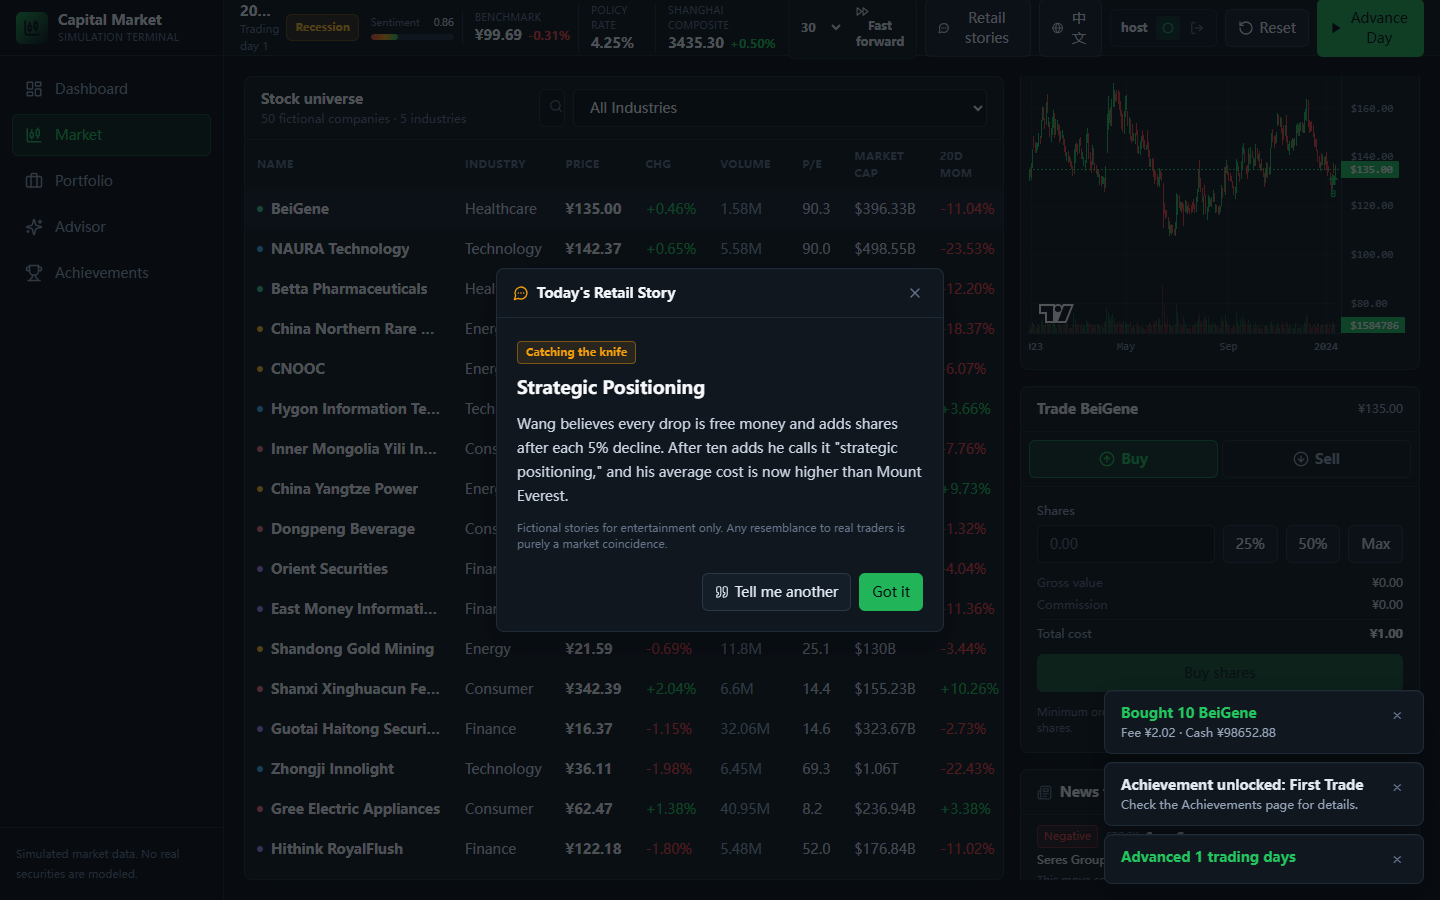
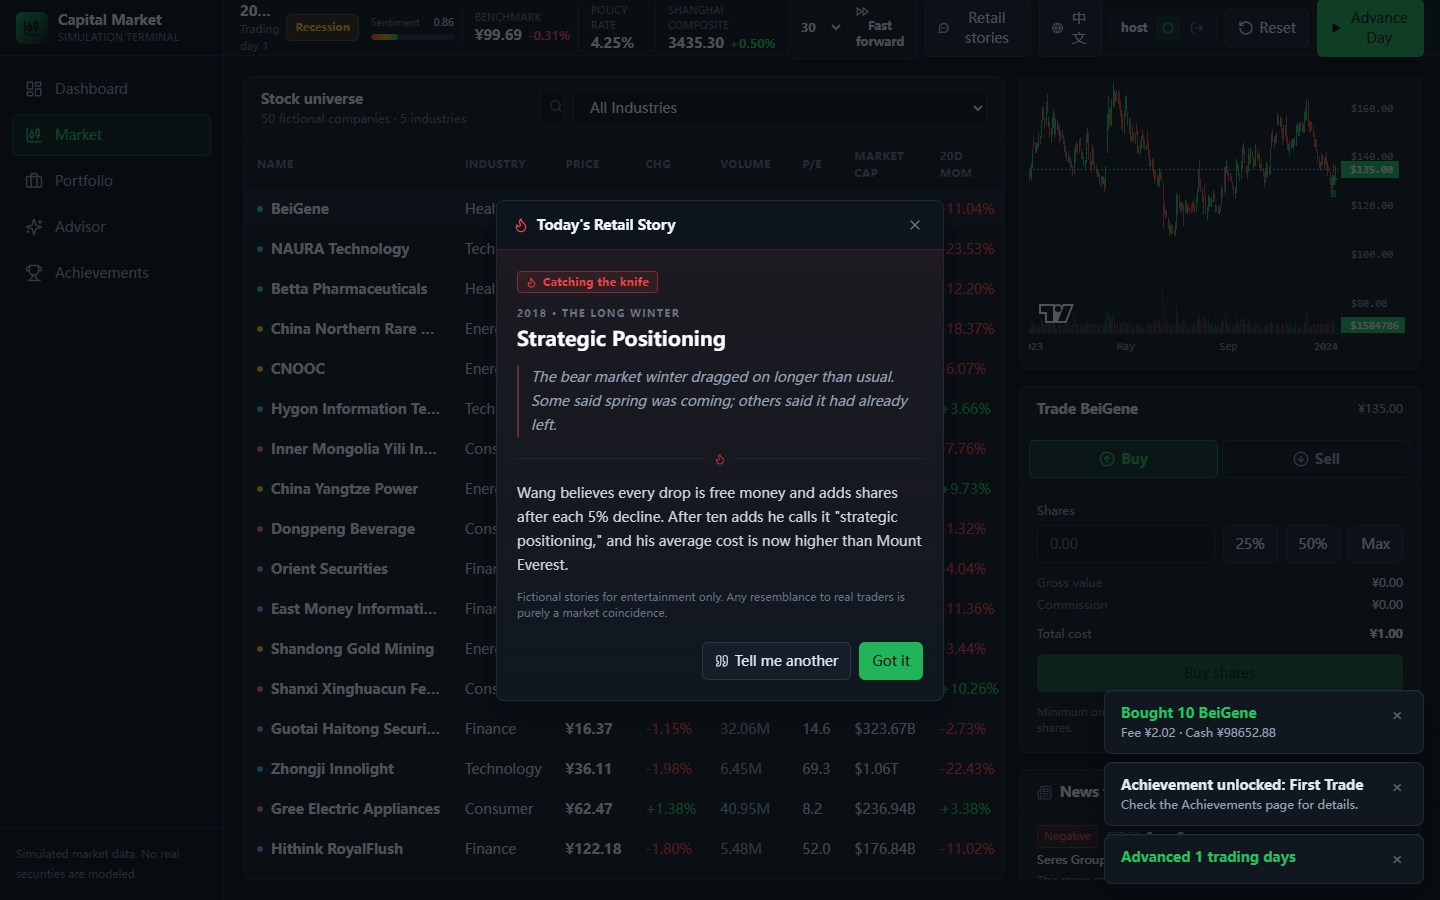
Give retail stories era-flavored archive style

diff --git a/frontend/src/components/story/RetailStoryModal.jsx b/frontend/src/components/story/RetailStoryModal.jsx
@@ -1,4 +1,4 @@
-import { MessageCircleMore, Quote, X } from "lucide-react";
+import { Flame, Quote, X } from "lucide-react";
 
 import { useApp } from "../../store/AppContext.jsx";
 
@@ -8,9 +8,9 @@ export default function RetailStoryModal() {
 
   return (
     <div className="fixed inset-0 z-40 flex items-center justify-center bg-ink-950/70 p-4">
-      <div className="panel w-full max-w-md overflow-hidden">
-        <div className="flex items-center gap-2 border-b border-ink-600/70 bg-ink-800/70 px-4 py-3">
-          <MessageCircleMore size={16} className="text-gold" />
+      <div className="panel w-full max-w-md overflow-hidden border-risk/30">
+        <div className="flex items-center gap-2 border-b border-risk/25 bg-ink-850 px-4 py-3">
+          <Flame size={16} className="text-risk" />
           <h2 className="text-sm font-semibold text-slate-100">{t("story.title")}</h2>
           <button
             onClick={closeStory}
@@ -20,11 +20,25 @@ export default function RetailStoryModal() {
             <X size={16} />
           </button>
         </div>
-        <div className="space-y-3 p-5">
-          <span className="inline-flex rounded border border-gold/40 bg-gold/10 px-2 py-0.5 text-[11px] font-semibold text-gold">
+        <div className="space-y-3 bg-gradient-to-b from-risk/[0.06] to-transparent p-5">
+          <span className="inline-flex items-center gap-1.5 rounded border border-risk/40 bg-risk/10 px-2 py-0.5 text-[11px] font-semibold tracking-wide text-risk">
+            <Flame size={11} />
             {story.tag}
           </span>
-          <h3 className="text-lg font-bold leading-6 text-slate-50">{story.title}</h3>
+          <div>
+            <p className="text-[10px] font-semibold uppercase tracking-[0.14em] text-slate-500">
+              {story.era}
+            </p>
+            <h3 className="mt-1 text-xl font-bold leading-7 text-slate-50">{story.title}</h3>
+          </div>
+          <p className="border-l-2 border-risk/40 pl-3 text-sm italic leading-6 text-slate-400">
+            {story.prologue}
+          </p>
+          <div className="flex items-center gap-2 py-1">
+            <span className="h-px flex-1 bg-ink-600/70" />
+            <Flame size={12} className="text-risk/70" />
+            <span className="h-px flex-1 bg-ink-600/70" />
+          </div>
           <p className="text-sm leading-6 text-slate-300">{story.story}</p>
           <p className="text-[11px] text-slate-500">{t("story.fiction")}</p>
           <div className="flex justify-end gap-2 pt-2">

diff --git a/backend/app/services/stories.py b/backend/app/services/stories.py
@@ -1,12 +1,20 @@
-"""Fun fictional retail investor stories shown to the player."""
+"""Fun fictional retail investor stories shown to the player.
+
+Each story carries an era label and an atmospheric prologue so the game reads
+like a small archive of market folklore rather than plain jokes.
+"""
 
 STORIES = [
     {
         "id": "s01",
         "tag_zh": "听消息",
         "tag_en": "Hot tip",
+        "era_zh": "1993 · 消息时代",
+        "era_en": "1993 · The Age of Rumors",
         "title_zh": "七大姑的独家内幕",
         "title_en": "Auntie's Insider Info",
+        "prologue_zh": "那一年，上海街头的每个人，口袋里都揣着一本手抄的股票笔记。",
+        "prologue_en": "That year, on the streets of Shanghai, everyone carried a handwritten stock notebook.",
         "body_zh": "老李的七大姑从牌友那里听说某股票要重组，他连夜满仓。第二天公司发公告说“近期无重大事项”，老李说：消息没错，是行情没听懂。",
         "body_en": "Li's aunt heard from a mahjong partner that a stock was about to restructure, so he went all in overnight. The next day the company announced \"no major events.\" Li says the tip was right, the market just didn't understand it.",
     },
@@ -14,8 +22,12 @@ STORIES = [
         "id": "s02",
         "tag_zh": "抄底",
         "tag_en": "Catching the knife",
+        "era_zh": "2018 · 漫长的冬天",
+        "era_en": "2018 · The Long Winter",
         "title_zh": "战略建仓",
         "title_en": "Strategic Positioning",
+        "prologue_zh": "熊市的冬天比往年更长，有人说春天快来了，有人说春天已经走了。",
+        "prologue_en": "The bear market winter dragged on longer than usual. Some said spring was coming; others said it had already left.",
         "body_zh": "小王坚信“跌多了就是送钱”，每跌 5% 加一次仓。连加十次后，他把这叫做“战略建仓”，而他的持仓成本线已经比海拔还高了。",
         "body_en": "Wang believes every drop is free money and adds shares after each 5% decline. After ten adds he calls it \"strategic positioning,\" and his average cost is now higher than Mount Everest.",
     },
@@ -23,8 +35,12 @@ STORIES = [
         "id": "s03",
         "tag_zh": "死扛",
         "tag_en": "Diamond hands",
+        "era_zh": "2008 · 六千点到两千点",
+        "era_en": "2008 · From 6,000 to 2,000",
         "title_zh": "回本就走",
         "title_en": "Sell When I Break Even",
+        "prologue_zh": "从六千点到两千点，只需要一年。从那以后，每个人都学会了一个词：套牢。",
+        "prologue_en": "From 6,000 points to 2,000 points in a single year. From then on, everyone learned one word: trapped.",
         "body_zh": "张姐买了只股票套了三年，她的止损规则是“等回本就卖”。三年后股价真的回本了，她说：涨这么猛，先不卖了，等翻倍。",
         "body_en": "Zhang has held a stock underwater for three years; her stop-loss rule is \"sell when I break even.\" When the price finally recovered, she said it was climbing too fast to sell, so she would wait for it to double.",
     },
@@ -32,8 +48,12 @@ STORIES = [
         "id": "s04",
         "tag_zh": "卖飞",
         "tag_en": "Sold too soon",
+        "era_zh": "2007 · 全民炒股",
+        "era_en": "2007 · A Nation of Traders",
         "title_zh": "我曾买过",
         "title_en": "I Used to Own It",
+        "prologue_zh": "那一年，连出租车司机都在聊涨停，路边小店的电视机永远停在财经频道。",
+        "prologue_en": "That year, even taxi drivers discussed limit-ups, and every corner shop TV stayed on the finance channel.",
         "body_zh": "刘叔买完第二天涨了 2% 就跑了，美滋滋。结果那只股票一年涨了 6 倍，现在“我曾经买过”这句话已经写进了他的家族史。",
         "body_en": "Uncle Liu sold after a 2% gain and felt great. The stock went up 6x that year, and \"I used to own it\" has since become part of his family history.",
     },
@@ -41,8 +61,12 @@ STORIES = [
         "id": "s05",
         "tag_zh": "杠杆",
         "tag_en": "Leverage",
+        "era_zh": "2015 · 杠杆牛市",
+        "era_en": "2015 · The Leverage Bull",
         "title_zh": "牛市靠胆量",
         "title_en": "Bull Markets Reward Courage",
+        "prologue_zh": "那一年，杠杆把每个人的胆子都撑大了，也把每个人的账户都架在了火上。",
+        "prologue_en": "That year, leverage inflated everyone's courage and propped every account over the fire.",
         "body_zh": "小赵开了 5 倍杠杆，一天赚了 15%，他兴奋地发朋友圈“牛市靠胆量”。第二天亏了 20%，他的朋友圈更新成了“市场有风险”。",
         "body_en": "Zhao used 5x leverage and made 15% in one day, posting \"bull markets reward courage.\" The next day he lost 20% and reposted: \"markets are risky.\"",
     },
@@ -50,8 +74,12 @@ STORIES = [
         "id": "s06",
         "tag_zh": "玄学",
         "tag_en": "Fortune telling",
+        "era_zh": "2024 · 玄学时代",
+        "era_en": "2024 · The Age of Mysticism",
         "title_zh": "招财猫形态",
         "title_en": "The Lucky Cat Pattern",
+        "prologue_zh": "那几年，K 线的意义早已超越技术分析，开始像卦象一样被郑重解读。",
+        "prologue_en": "In those years, candlesticks outgrew technical analysis and were solemnly read like fortune sticks.",
         "body_zh": "陈叔选股不看财报，只看手机尾号和 K 线形状。他说那根 W 底长得像他家的招财猫，于是果断买进，并给它取名“招财底”。",
         "body_en": "Chen picks stocks by the last digits of his phone number and the shapes on his chart. He saw a W bottom that looked like his lucky cat, bought in, and named it the \"lucky cat pattern.\"",
     },
@@ -59,8 +87,12 @@ STORIES = [
         "id": "s07",
         "tag_zh": "电梯内幕",
         "tag_en": "Elevator insider",
+        "era_zh": "2007 · 电梯里的牛市",
+        "era_en": "2007 · The Elevator Bull",
         "title_zh": "电梯里的两个西装男",
         "title_en": "Two Guys in Suits",
+        "prologue_zh": "那一年，电梯里只有两种话题：房价，和股票。",
+        "prologue_en": "That year, elevators had only two topics: housing, and stocks.",
         "body_zh": "小吴在电梯里听到两个西装男在聊某只股票，当场下单。后来才知道，那两个人是另一家公司的销售，在聊客户名字。",
         "body_en": "Wu bought a stock because he overheard two men in suits discussing it in the elevator. It turned out they were salesmen from another company, talking about a client's name.",
     },
@@ -68,8 +100,12 @@ STORIES = [
         "id": "s08",
         "tag_zh": "满仓",
         "tag_en": "All in",
+        "era_zh": "2015 · 全民股神",
+        "era_en": "2015 · Everyone a Stock God",
         "title_zh": "全家总动员",
         "title_en": "Family Mobilization",
+        "prologue_zh": "那一年，全民都是股神，没人记得风险长什么样。",
+        "prologue_en": "That year, everyone was a stock god, and nobody remembered what risk looked like.",
         "body_zh": "老周把买菜钱、孩子压岁钱和备用金都转进了账户，称之为“全家总动员”。月底账户缩水，他称之为“全家福”。",
         "body_en": "Zhou moved the grocery money, the kids' red envelopes, and the emergency fund into trading, calling it \"family mobilization.\" When the account shrank at month end, he called it \"a family portrait.\"",
     },
@@ -77,8 +113,12 @@ STORIES = [
         "id": "s09",
         "tag_zh": "割肉",
         "tag_en": "Cut losses",
+        "era_zh": "2015 · 千股跌停",
+        "era_en": "2015 · A Thousand Limit-Downs",
         "title_zh": "我一卖它就涨",
         "title_en": "It Rallies the Moment I Sell",
+        "prologue_zh": "那个夏天，千股跌停像一场集体噩梦，醒来后每个人都在互相安慰：这只是技术性调整。",
+        "prologue_en": "That summer, a thousand stocks hit limit-down together like a shared nightmare, and everyone woke up reassuring each other: it's only a technical correction.",
         "body_zh": "小孙刚割完肉，股票立刻涨停。他总结出新规律：只要我卖，它必涨。现在他成了小区公认的反向指标。",
         "body_en": "Sun sold at a loss and the stock hit the daily limit instantly. He discovered a rule: whenever he sells, it rallies. He is now the neighborhood's official reverse indicator.",
     },
@@ -86,8 +126,12 @@ STORIES = [
         "id": "s10",
         "tag_zh": "回本",
         "tag_en": "Break even",
+        "era_zh": "2008 · 等待回本",
+        "era_en": "2008 · Waiting to Break Even",
         "title_zh": "再赚五万就收手",
         "title_en": "Fifty Thousand More and I Quit",
+        "prologue_zh": "账户缩水一半的人，都在等同一个词：回本。",
+        "prologue_en": "Everyone whose account had halved was waiting for the same word: break even.",
         "body_zh": "马姐的账户从 20 万亏到 8 万，她每天祈祷“回本就好”。等她真的回本那天，她决定“再赚 5 万就收手”，然后开始了新一轮祈祷。",
         "body_en": "Ma's account fell from 200k to 80k and she prayed daily just to break even. The day she finally did, she decided to \"make 50k more and quit,\" starting a whole new round of praying.",
     },
@@ -95,8 +139,12 @@ STORIES = [
         "id": "s11",
         "tag_zh": "借钱",
         "tag_en": "Borrowed money",
+        "era_zh": "2015 · 勇气与杠杆",
+        "era_en": "2015 · Courage and Leverage",
         "title_zh": "等风来",
         "title_en": "Waiting for the Wind",
+        "prologue_zh": "那一年，借钱炒股不再被看作鲁莽，而被看作一种勇气。",
+        "prologue_en": "That year, borrowing to trade was no longer seen as reckless, but as courage.",
         "body_zh": "小郑找亲戚借了 10 万“短期周转”，亲戚问多久，他说“等风来”。三个月后亲戚再问，他说“风还在路上”。",
         "body_en": "Zheng borrowed 100k from relatives for \"short-term liquidity.\" Asked how long, he said \"until the wind comes.\" Three months later they asked again; the wind was still on its way.",
     },
@@ -104,8 +152,12 @@ STORIES = [
         "id": "s12",
         "tag_zh": "装死",
         "tag_en": "Playing dead",
+        "era_zh": "2018 · 账户体检",
+        "era_en": "2018 · The Account Checkup",
         "title_zh": "我装作没买过",
         "title_en": "Pretending to Own Nothing",
+        "prologue_zh": "那一年，打开炒股软件比打开体检报告更需要勇气。",
+        "prologue_en": "That year, opening the trading app took more courage than opening a medical report.",
         "body_zh": "阿强被套后养成了新习惯：每天打开软件只看一眼就关，装作自己没买过。直到某天误触卖出键，他才想起自己还有持仓。",
         "body_en": "After getting trapped, Qiang got into the habit of opening his app, glancing at it, and closing it, pretending he owned nothing. One day he accidentally hit sell and remembered he had positions.",
     },
@@ -113,8 +165,12 @@ STORIES = [
         "id": "s13",
         "tag_zh": "直播炒股",
         "tag_en": "Live trading",
+        "era_zh": "2021 · 直播间时代",
+        "era_en": "2021 · The Livestream Era",
         "title_zh": "321 上车",
         "title_en": "3, 2, 1, Get In",
+        "prologue_zh": "那几年，直播间里的“三、二、一”，比开盘钟声还要响亮。",
+        "prologue_en": "In those years, the \"three, two, one\" in livestreams rang louder than the opening bell.",
         "body_zh": "小丽跟着某财经主播“321 上车”追了一只票，买完主播就下播了。她后来发现主播的简介写着：本节目仅供娱乐。",
         "body_en": "Li chased a stock with a streamer shouting \"3, 2, 1, get in!\", and the streamer went offline right after she bought. She later noticed the bio: \"For entertainment only.\"",
     },
@@ -122,8 +178,12 @@ STORIES = [
         "id": "s14",
         "tag_zh": "一夜暴富",
         "tag_en": "Get rich quick",
+        "era_zh": "2007 · 十年大牛",
+        "era_en": "2007 · The Ten-Year Bull",
         "title_zh": "大不了重新上班",
         "title_en": "Worst Case, I Go Back to Work",
+        "prologue_zh": "那一年，每个人都相信十年大牛刚刚开始，退休金只是起跑线。",
+        "prologue_en": "That year, everyone believed the ten-year bull market had just begun, and a pension was just the starting line.",
         "body_zh": "老钱把退休金押进去赌“百年大行情”，他说“大不了重新上班”。后来他真的重新上班了，工牌上写着“夜班保安”。",
         "body_en": "Qian put his pension into a \"once-in-a-century rally,\" saying \"worst case, I go back to work.\" He did. His badge now reads \"night security guard.\"",
     },
@@ -131,8 +191,12 @@ STORIES = [
         "id": "s15",
         "tag_zh": "反向操作",
         "tag_en": "Contrarian",
+        "era_zh": "2022 · 原地踏步的指数",
+        "era_en": "2022 · The Index That Never Moved",
         "title_zh": "负负得正",
         "title_en": "Two Negatives Make a Positive",
+        "prologue_zh": "那一年，指数还在原地，交易的人已经换了好几茬。",
+        "prologue_en": "That year, the index stayed put while the people trading it came and went several times over.",
         "body_zh": "小何发现自己看好的股票都跌、看不上的都涨，于是决定反着买。结果两只一起跌，他说：我这叫负负得正。",
         "body_en": "He noticed that stocks he liked fell and stocks he disliked rallied, so he bought the ones he disliked. Both fell together. His explanation: two negatives make a positive.",
     },
@@ -140,8 +204,12 @@ STORIES = [
         "id": "s16",
         "tag_zh": "情绪管理",
         "tag_en": "Emotional trading",
+        "era_zh": "2019 · 白天复盘，夜里失眠",
+        "era_en": "2019 · Charts by Day, Sleepless by Night",
         "title_zh": "盘感依赖症",
         "title_en": "Chart Obsession Disorder",
+        "prologue_zh": "那一年，白天复盘和夜里失眠，其实是同一件事。",
+        "prologue_en": "That year, reviewing charts by day and lying awake at night were the same thing.",
         "body_zh": "老韩每次亏钱就喝酒，喝完就加仓，加完就后悔，后悔就睡不着，睡不着就再看盘。医生说他得了“盘感依赖症”。",
         "body_en": "Han drinks after every loss, adds shares after drinking, regrets it, can't sleep, and checks the charts again. His doctor calls it \"chart-obsession disorder.\"",
     },
@@ -149,8 +217,12 @@ STORIES = [
         "id": "s17",
         "tag_zh": "开盘前",
         "tag_en": "Before the bell",
+        "era_zh": "2020 · 神圣的十分钟",
+        "era_en": "2020 · The Sacred Ten Minutes",
         "title_zh": "战歌选错了",
         "title_en": "Wrong Battle Anthems",
+        "prologue_zh": "那一年，开盘前的十分钟，是一天中最神圣的时刻。",
+        "prologue_en": "That year, the ten minutes before the open were the most sacred part of the day.",
         "body_zh": "小杨每天开盘前都要听三首战歌，说这样“气势如虹”。结果开盘十分钟账户就绿了，他说战歌选错了，明天换一首。",
         "body_en": "Yang plays three battle anthems before every open to \"boost morale.\" His account turns green within ten minutes, so he swears he picked the wrong songs and will swap them tomorrow.",
     },
@@ -158,8 +230,12 @@ STORIES = [
         "id": "s18",
         "tag_zh": "股神附体",
         "tag_en": "Stock god",
+        "era_zh": "2021 · 人人都是巴菲特",
+        "era_en": "2021 · Everyone a Buffett",
         "title_zh": "巴菲特转世",
         "title_en": "Reborn as Buffett",
+        "prologue_zh": "那一年，每个人都觉得自己是下一个巴菲特，只是暂时还没人兑现。",
+        "prologue_en": "That year, everyone believed they were the next Buffett; they just hadn't cashed in yet.",
         "body_zh": "阿杰连续三天猜对涨跌，觉得自己是巴菲特转世，宣布辞职专职炒股。第一周结束，他开始研究外卖骑手的入职流程。",
         "body_en": "Jay predicted three days of moves correctly, declared himself the reincarnation of Buffett, and quit his job to trade full time. By the end of week one he was researching delivery driver applications.",
     },
@@ -167,8 +243,12 @@ STORIES = [
         "id": "s19",
         "tag_zh": "股吧大师",
         "tag_en": "Forum guru",
+        "era_zh": "2015 · 散户国会山",
+        "era_en": "2015 · The Retail Parliament",
         "title_zh": "战术性撤退",
         "title_en": "A Tactical Retreat",
+        "prologue_zh": "那一年，股吧就是散户的国会山，发帖的人比看盘的人还多。",
+        "prologue_en": "That year, the stock forum was retail investors' parliament, with more posters than chart-watchers.",
         "body_zh": "老牛白天在群里发“耐心持有，价值投资”，晚上偷偷挂单割肉。群友发现后，他解释：这叫战术性撤退。",
         "body_en": "Niu preaches \"patience and value investing\" in the group chat by day, then quietly sells at a loss at night. When caught, he calls it a tactical retreat.",
     },
@@ -176,8 +256,12 @@ STORIES = [
         "id": "s20",
         "tag_zh": "目标价",
         "tag_en": "Target price",
+        "era_zh": "2019 · 科创板元年",
+        "era_en": "2019 · The STAR Market Year",
         "title_zh": "四舍五入再等等",
         "title_en": "Rounding Up",
+        "prologue_zh": "那一年，科创板开市，新的故事开始了，新的目标价也是。",
+        "prologue_en": "That year, the STAR Market opened, and with it came new stories and new target prices.",
         "body_zh": "小美买股票前设好目标价“赚 30% 就卖”。股票涨到 28% 时她犹豫了，四舍五入一下，决定再等等。后来她的目标价改成了“回本就走”。",
         "body_en": "Mei sets a 30% target before buying. At 28% she hesitates, rounds up, and waits a little longer. Her target eventually becomes \"sell when I break even.\"",
     },
@@ -189,6 +273,8 @@ def localize_story(story: dict, lang: str) -> dict:
     return {
         "id": story["id"],
         "tag": story["tag_zh"] if zh else story["tag_en"],
+        "era": story["era_zh"] if zh else story["era_en"],
         "title": story["title_zh"] if zh else story["title_en"],
+        "prologue": story["prologue_zh"] if zh else story["prologue_en"],
         "story": story["body_zh"] if zh else story["body_en"],
     }

diff --git a/backend/tests/test_stories.py b/backend/tests/test_stories.py
@@ -6,7 +6,9 @@ def test_today_story_is_deterministic(client):
     body = first.json()
     assert body["id"].startswith("s")
     assert body["tag"]
+    assert body["era"]
     assert body["title"]
+    assert body["prologue"]
     assert body["story"]
 
 

diff --git a/README.md b/README.md
@@ -24,8 +24,9 @@ Every price move is real history, replayed day by day.
 - **Realistic ecosystem**: 8 institutional strategies and 28 behavior-driven
   retail bots trade daily with real holdings; their order flow moves prices and
   their returns span large losses to large gains
-- **Retail investor stories**: a funny fictional story pops up after each
-  trading day, with 20+ bilingual tales and a "tell me another" mode
+- **Retail investor stories**: an era-flavored fictional tale pops up after
+  each trading day, written like a market archive from 1993 to 2024, with 20+
+  bilingual stories and a "tell me another" mode
 - **Full product surface**: dashboard, market terminal, portfolio analytics,
   rule-based AI advisor, achievements, manager archives, leaderboard, and
   English/Chinese UI
